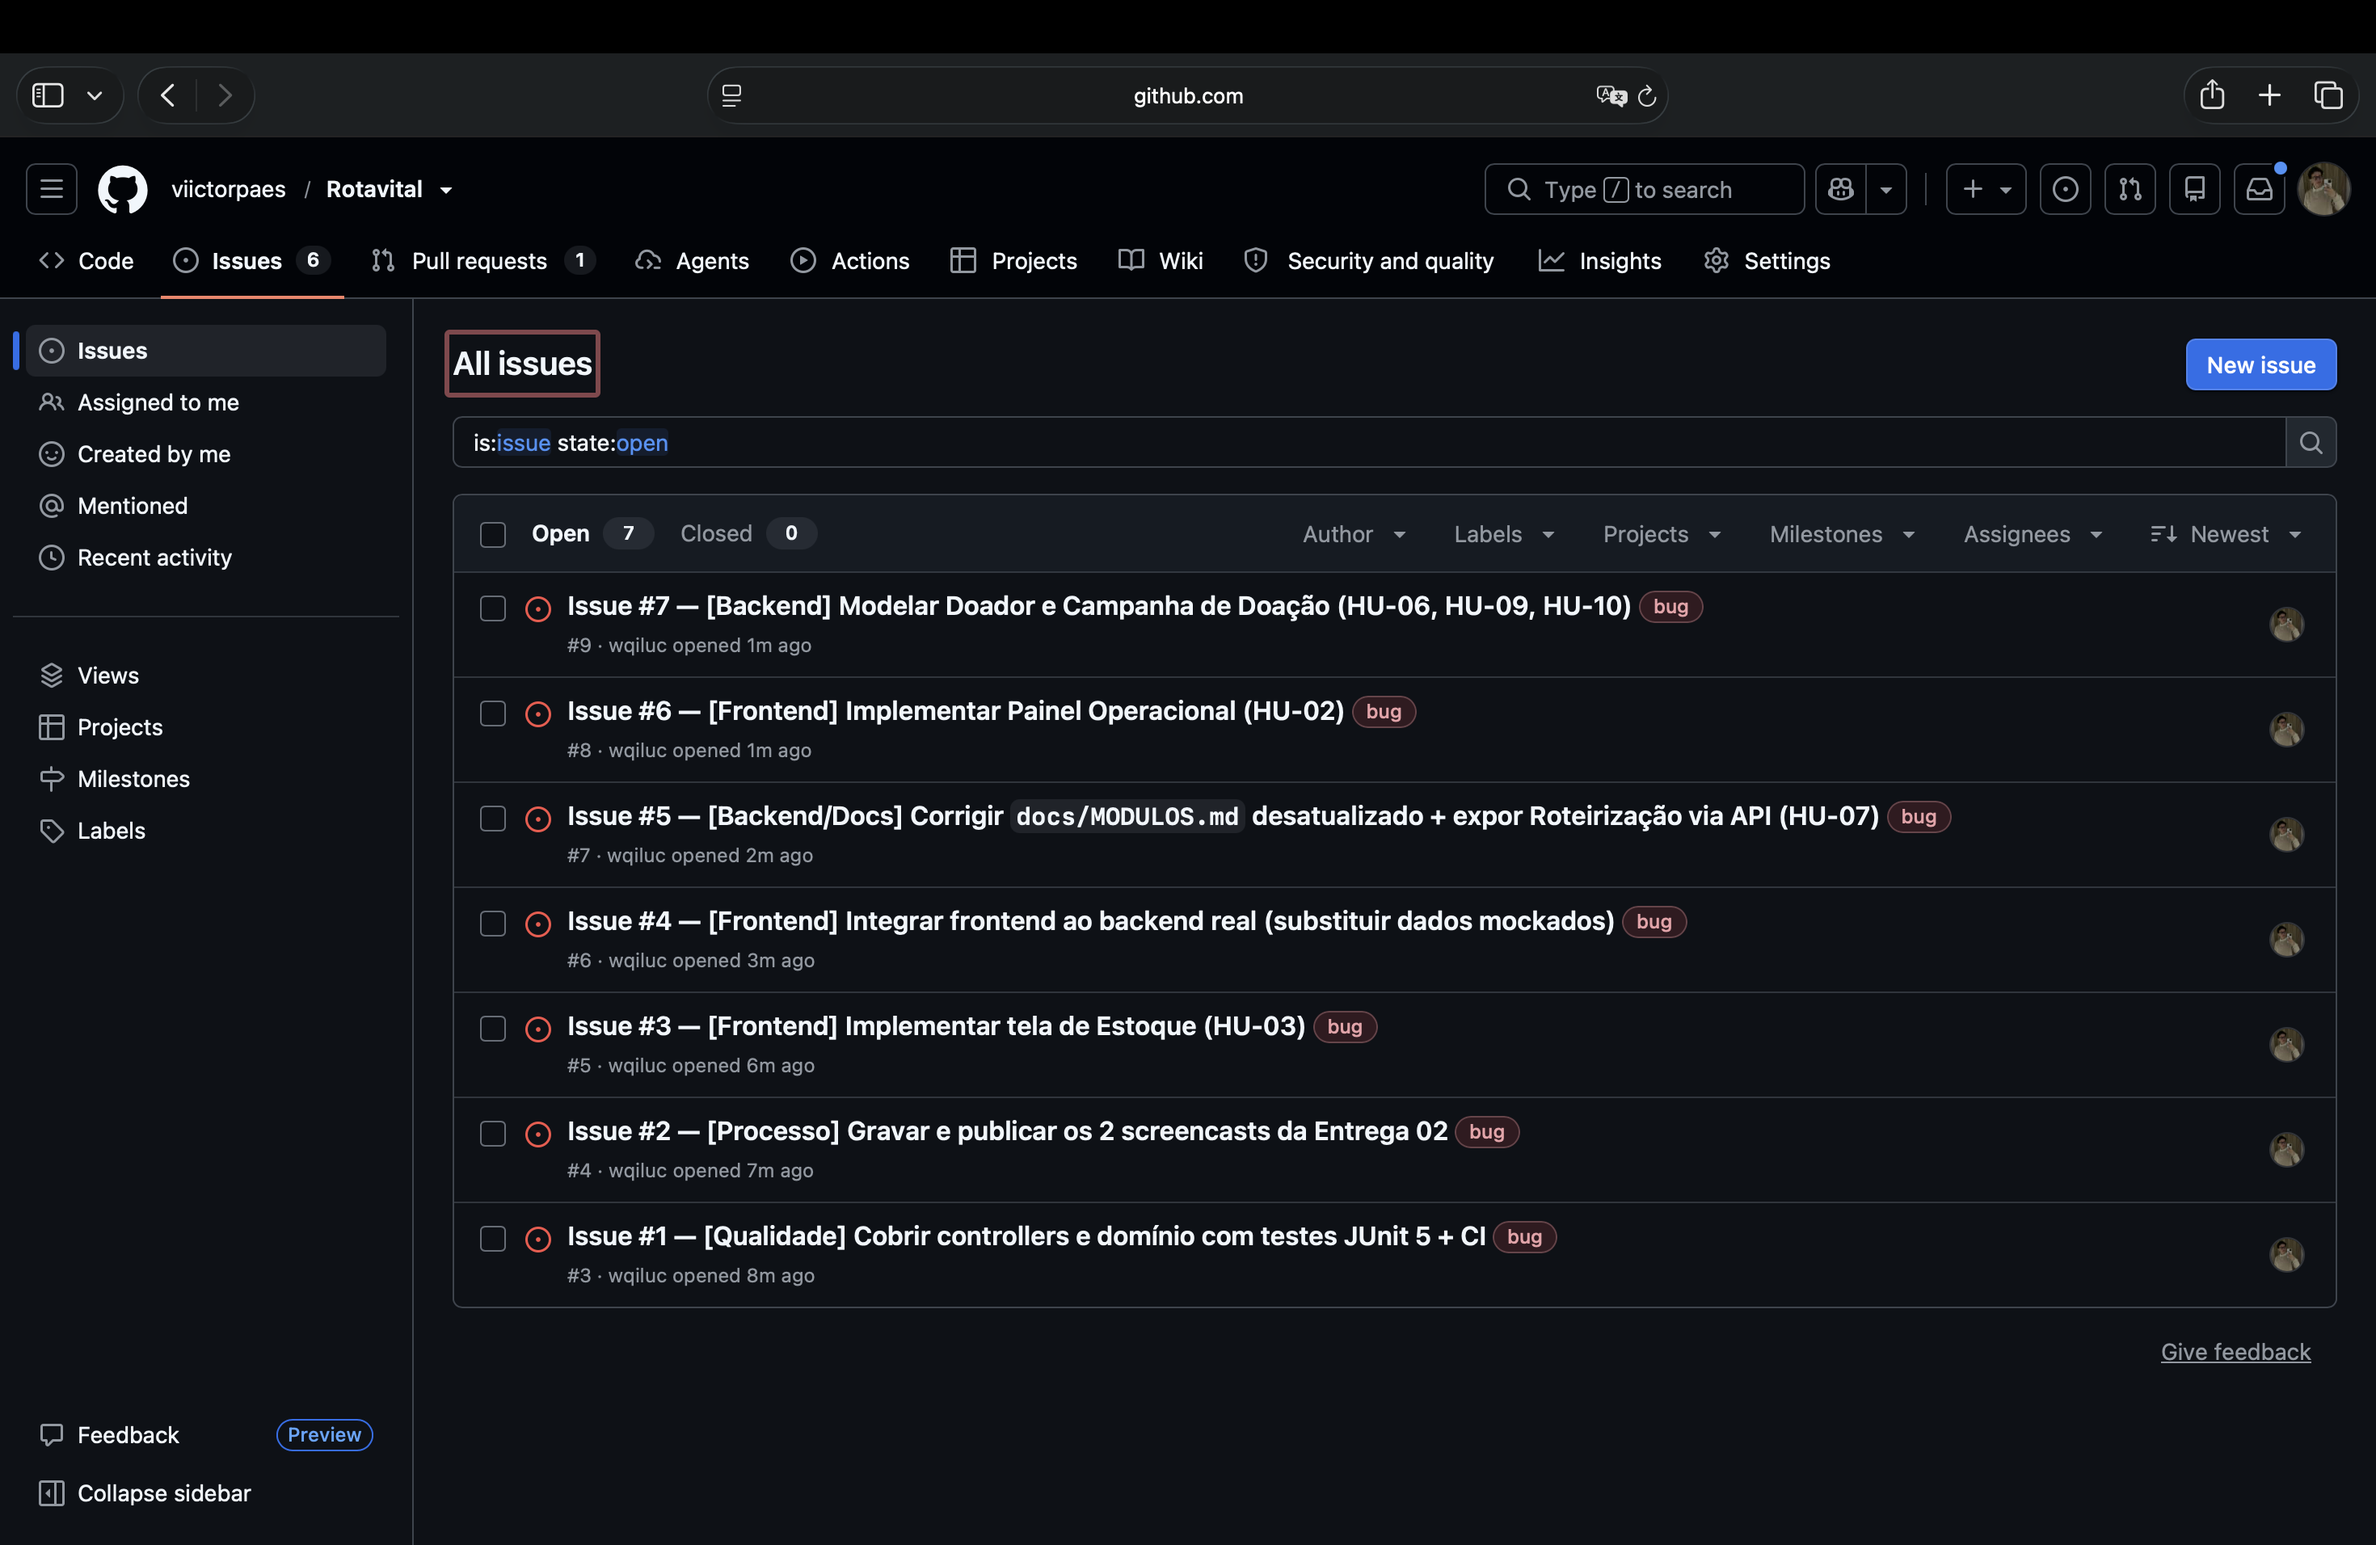
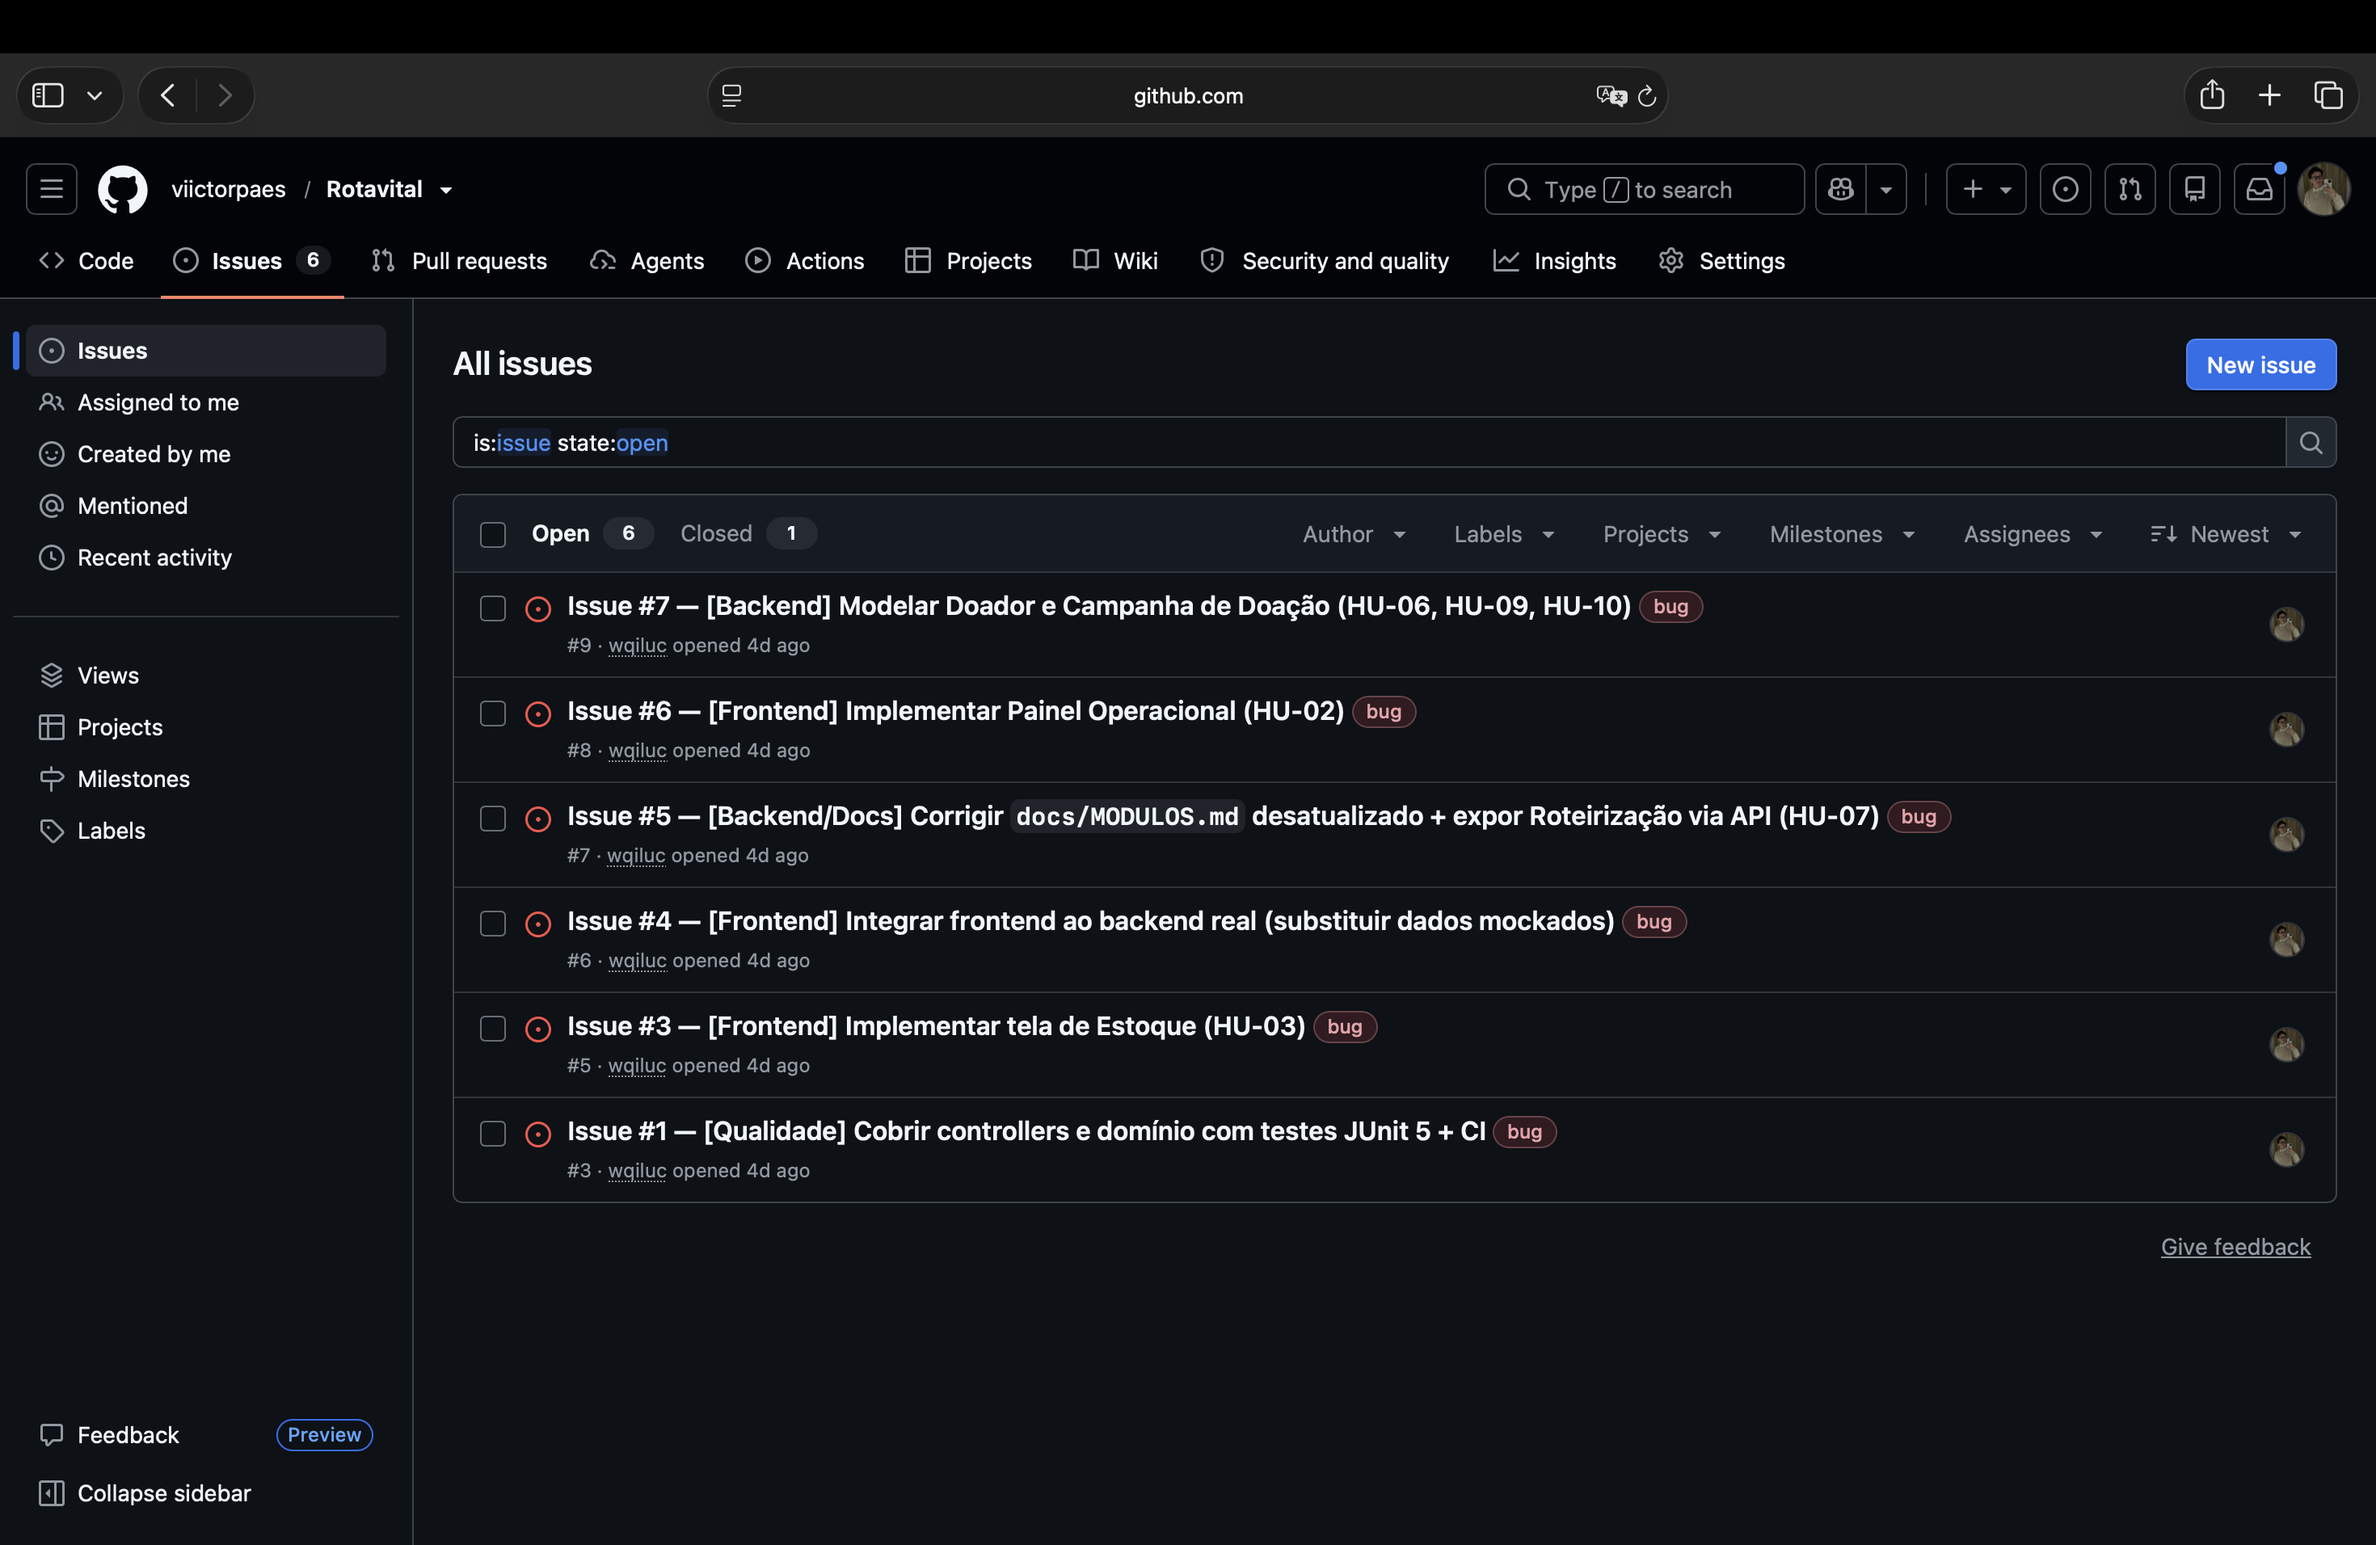
docs(Issues/BugTracker): update na session das Issues/BugTracker

diff --git a/README.md b/README.md
@@ -381,9 +381,12 @@ publicado no <a href="https://youtu.be/3RlgYAGPyaE" target="_blank">YouTube</a>,
 | :--- | :--- | :---: |
 | ✅ Histórias implementadas | Mínimo de 2 HUs em código real (não só Figma) | <img src="https://img.shields.io/badge/5%2F2-22C55E?style=flat-square" height="18"/> **Feito** |
 | 🔁 Versionamento atuante | Commits de código direto na `main`, no mínimo semanais | <img src="https://img.shields.io/badge/Commits_semanais_na_main-22C55E?style=flat-square" height="18"/> **Feito** — PRs #2 e #10 mesclados na `main` em 14/09, com commits também em 23/08, 09/09 e 12/09, mantendo cadência semanal |
-| 🐞 Issue/Bug Tracker | GitHub Issues atualizado todas as semanas + print no README | <img src="https://img.shields.io/badge/7_issues_abertas-22C55E?style=flat-square" height="18"/> **Feito** — 7 issues abertas no GitHub (label `bug`), com prints na seção [Issue/Bug Tracker](#issue-tracker) abaixo |
-| 🎬 ScreenCast — Uso do sistema | Vídeo (YouTube) da aplicação Spring Boot rodando, explicando as HUs implementadas | <a href="https://youtu.be/3RlgYAGPyaE" target="_blank"><img src="https://img.shields.io/badge/-Assistir_no_YouTube-111827?style=flat-square&logo=youtube&logoColor=red" height="18"/></a> **Feito** |
-| 💻 ScreenCast — Explicação do código | Vídeo (YouTube) explicando o código da aplicação Spring e das HUs implementadas | <a href="https://youtu.be/3RlgYAGPyaE" target="_blank"><img src="https://img.shields.io/badge/-Assistir_no_YouTube-111827?style=flat-square&logo=youtube&logoColor=red" height="18"/></a> **Feito** |
+| 🐞 Issue/Bug Tracker | GitHub Issues atualizado todas as semanas + print no README | <img src="https://img.shields.io/badge/6_abertas_%2F_1_fechada-22C55E?style=flat-square" height="18"/> **Feito** — 7 issues registradas no GitHub (label `bug`), 1 já fechada, com prints na seção [Issue/Bug Tracker](#issue-tracker) abaixo |
+
+| Artefato | Descrição | Link |
+| :--- | :--- | :--- |
+| 🎬 Screencast — Uso do sistema | Aplicação Spring Boot rodando, explicando as HUs implementadas | [Assistir vídeo](https://youtu.be/3RlgYAGPyaE) |
+| 💻 Screencast — Explicação do código | Código da aplicação Spring Boot e das HUs implementadas | [Assistir vídeo](https://youtu.be/3RlgYAGPyaE) |
 
 <h4 align="center">📝 Histórias Implementadas — Entrega 02</h4>
 
@@ -416,14 +419,15 @@ no backend, React no frontend. O detalhamento completo (ator, tela, BDD) de cada
 > ✅ Frontend — [`PaginaPortalDoador.tsx`](./frontend/src/pages/PortalDoador/PaginaPortalDoador.tsx) (nesta branch)
 
 <h4 align="center" id="issue-tracker">🐛 Issue/Bug Tracker — Entrega 02 <br>
-<img src="https://img.shields.io/badge/7_Issues_Abertas-red?style=flat-square&logo=github&logoColor=white" height="20"/>
+<img src="https://img.shields.io/badge/6_Issues_Abertas-red?style=flat-square&logo=github&logoColor=white" height="20"/>
+<img src="https://img.shields.io/badge/1_Issue_Fechada-22C55E?style=flat-square&logo=github&logoColor=white" height="20"/>
 </h4>
 
 <p align="center">
-7 issues abertas no <a href="https://github.com/viictorpaes/Rotavital/issues" target="_blank">GitHub Issues</a> do repositório,
+7 issues registradas no <a href="https://github.com/viictorpaes/Rotavital/issues" target="_blank">GitHub Issues</a> do repositório,
 todas com a label <code>bug</code>, registrando gaps reais encontrados entre o protótipo Figma, a documentação
-técnica (<code>docs/</code>) e o código que de fato roda hoje (backend Spring Boot + frontend React). Nenhuma foi
-fechada ainda — viram trabalho de entrada da Entrega 03.
+técnica (<code>docs/</code>) e o código que de fato roda hoje (backend Spring Boot + frontend React). A Issue #2 já
+foi fechada nesta entrega; as demais viram trabalho de entrada da Entrega 03.
 </p>
 
 <p align="center">
@@ -434,7 +438,7 @@ fechada ainda — viram trabalho de entrada da Entrega 03.
 | :---: | :--- | :--- |
 | <img src="./img/issue-tracker_issue1-testes-junit_1.png" width="260"/> | 🔴 Issue #1 — Testes JUnit 5 + CI (contexto) | Cobertura de testes em 0%: o projeto já tem `junit-jupiter` no `pom.xml`, mas `TesteFluxo.java` ainda usa `main()` em vez de `@Test`. Tarefas para convertê-lo, adicionar `spring-boot-starter-test` e cobrir `AcessoController`/`EstoqueController`. |
 | <img src="./img/issue-tracker_issue1-testes-junit_2.png" width="260"/> | 🔴 Issue #1 — Testes JUnit 5 + CI (cenários e pipeline) | Matriz mínima de cenários de teste por endpoint (`POST /acesso`, `GET /estoque/{id}`) e pipeline de CI sugerido, bloqueando o merge quando `mvn test` falha. |
-| <img src="./img/issue-tracker_issue2-screencasts.png" width="260"/> | 🔴 Issue #2 — Screencasts pendentes da Entrega 02 | Checklist para gravar e publicar os 2 vídeos exigidos nesta entrega (uso do sistema rodando e explicação do código) e atualizar os links na seção Entrega 02 do README. |
+| <img src="./img/issue2_done.png" width="260"/> | ✅ Issue #2 — Screencasts da Entrega 02 (fechada) | Checklist para gravar e publicar os 2 vídeos exigidos nesta entrega (uso do sistema rodando e explicação do código) concluído; vídeos publicados no YouTube e issue fechada no GitHub. |
 | <img src="./img/issue-tracker_issue3-estoque.png" width="260"/> | 🔴 Issue #3 — Implementar tela de Estoque (HU‑03) | O backend já expõe `GET /estoque/{bancoId}?tipoSanguineo=`; falta a `PaginaEstoque.tsx` sair do placeholder `EmBreve` e consumir esse endpoint de verdade. |
 | <img src="./img/issue-tracker_issue4-integracao-backend.png" width="260"/> | 🔴 Issue #4 — Integrar frontend ao backend real | Hoje o frontend roda 100% sobre dados mockados (`pessoasMock.ts`, login só em memória). Plano para criar uma camada `api.ts`, trocar login/estoque por chamadas HTTP reais e configurar CORS no Spring Boot. |
 | <img src="./img/issue-tracker_issue5-docs-roteirizacao_1.png" width="260"/> | 🟠 Issue #5 — Docs desatualizados sobre Roteirização (achado) | `docs/MODULOS.md` classifica o módulo de Roteirização como "só lat/long, sem grafo", mas o código já implementa o grafo/Dijkstra (`RedeDistribuicao`, `Conexao`, `RotaCalculada`) usado no protótipo. |
